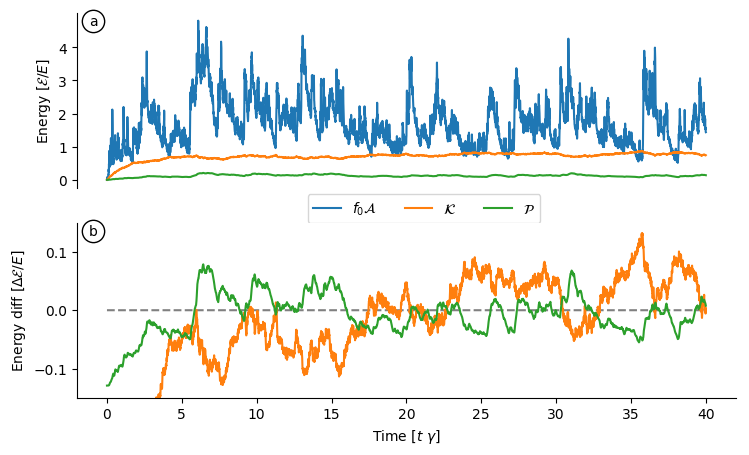
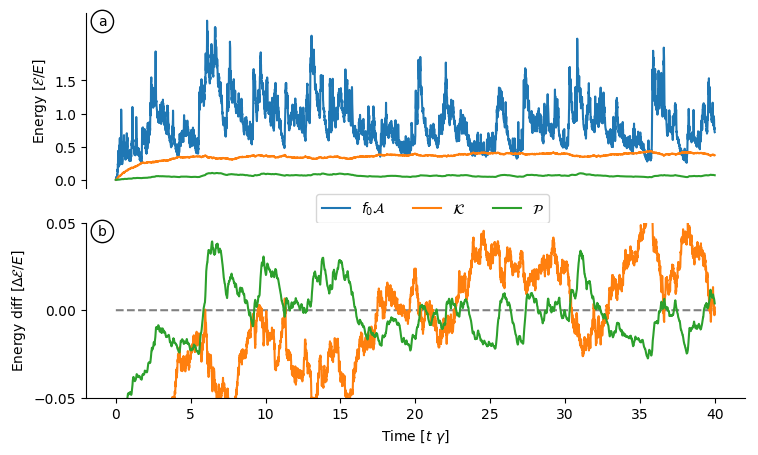
Updates plotting scripts

diff --git a/code/PlotDiagnosticsReference.py b/code/PlotDiagnosticsReference.py
@@ -105,8 +105,9 @@ time = diags['time'][:]*gamma
 #
 
 # scaling
-E = epsilon_q/mu
+#E = epsilon_q/mu
 Ew = PHI**2 / 2
+E = Ew
 POWER = (sigma_w**2 / 2)
 
 # averages
@@ -134,7 +135,7 @@ pk = plt.plot(time,diags['ke_qg'][:]/E,label=r'$\mathcal{K}$')
 pp = plt.plot(time,diags['pe_niw']/E,label=r'$\mathcal{P}$')
 #plt.xlabel(r"Time $[t\,\,\gamma]$")
 plt.ylabel(r"Energy $[\mathcal{E}/E]$")
-plt.yticks([0,1.,2.,3.,4.])
+plt.yticks([0,.5,1.,1.5])
 plt.legend(loc=(0.35,-0.2),ncol=3)
 remove_axes(ax,bottom=True)
 plot_fig_label(ax,xc=0.025,yc=0.95,label='a')
@@ -145,8 +146,8 @@ plt.plot(time,(diags['ke_qg'][:]-Km)/E,label=r'$\mathcal{K}$',color=pk[0].get_co
 plt.plot(time,(diags['pe_niw']-Pm)/E,label=r'$\mathcal{P}$',color=pp[0].get_color())
 plt.xlabel(r"Time $[t\,\,\gamma]$")
 plt.ylabel(r"Energy diff $[\Delta \mathcal{E}/E]$")
-plt.ylim(-0.15,.15)
-plt.yticks([-0.1,0.0,.1])
+plt.ylim(-0.05,.05)
+plt.yticks([-0.05,0.0,.05])
 remove_axes(ax)
 plot_fig_label(ax,xc=0.025,yc=0.95,label='b')
 plt.savefig(patho+'energies_reference_hard' , pad_inces=0, bbox_inches='tight')
